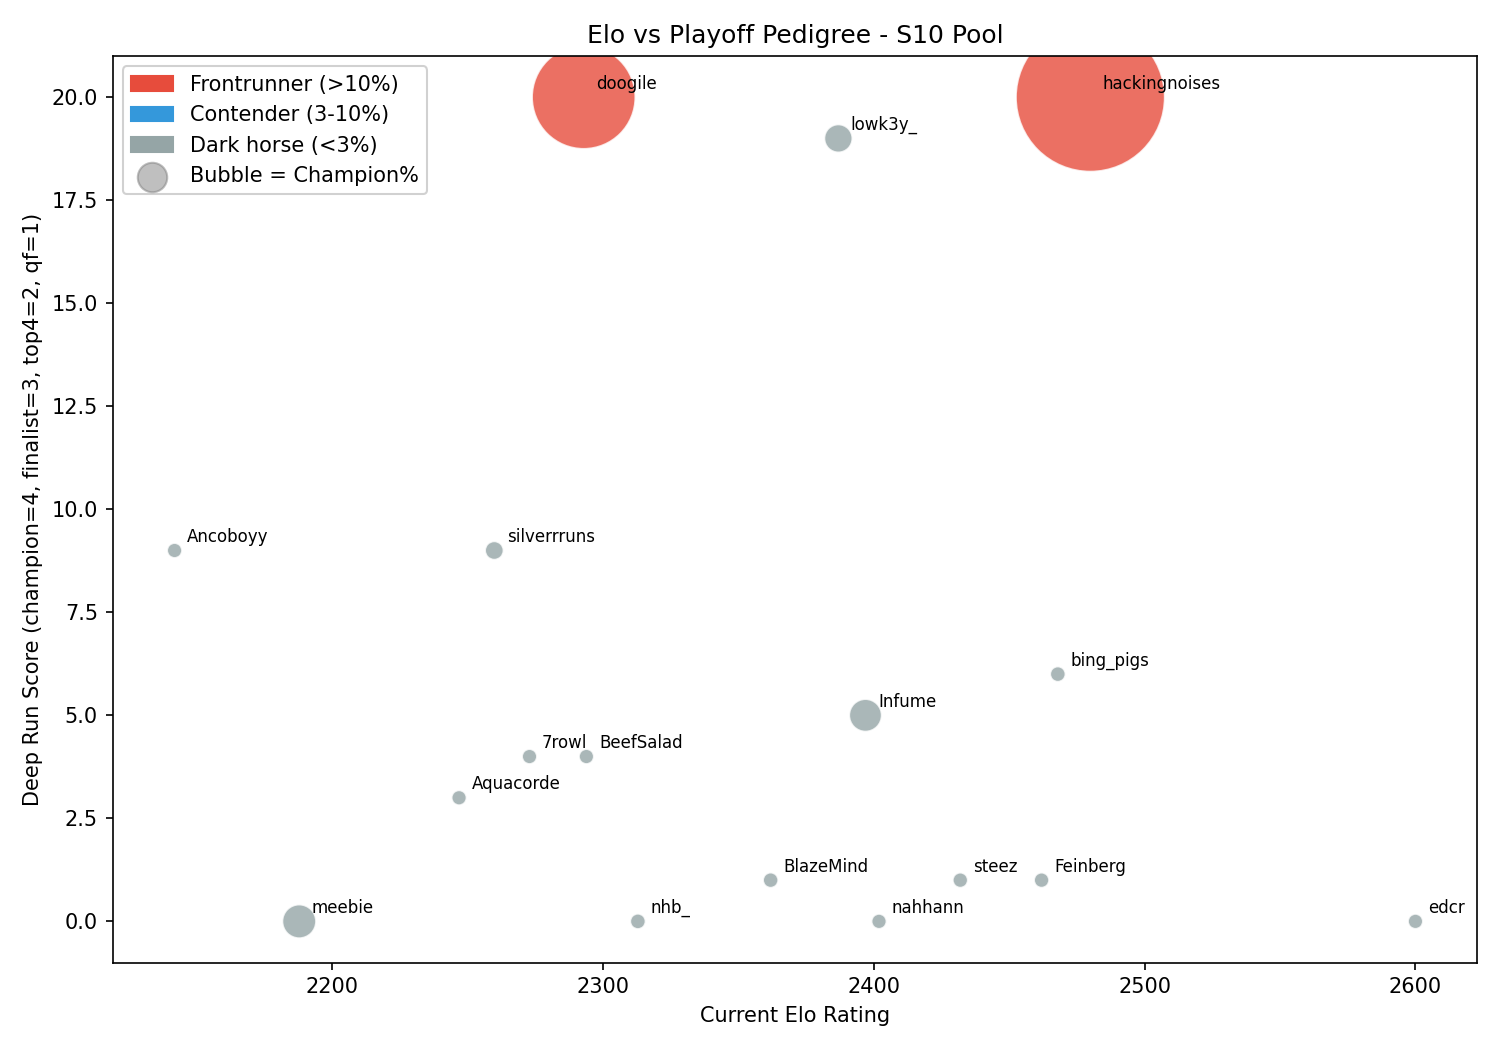
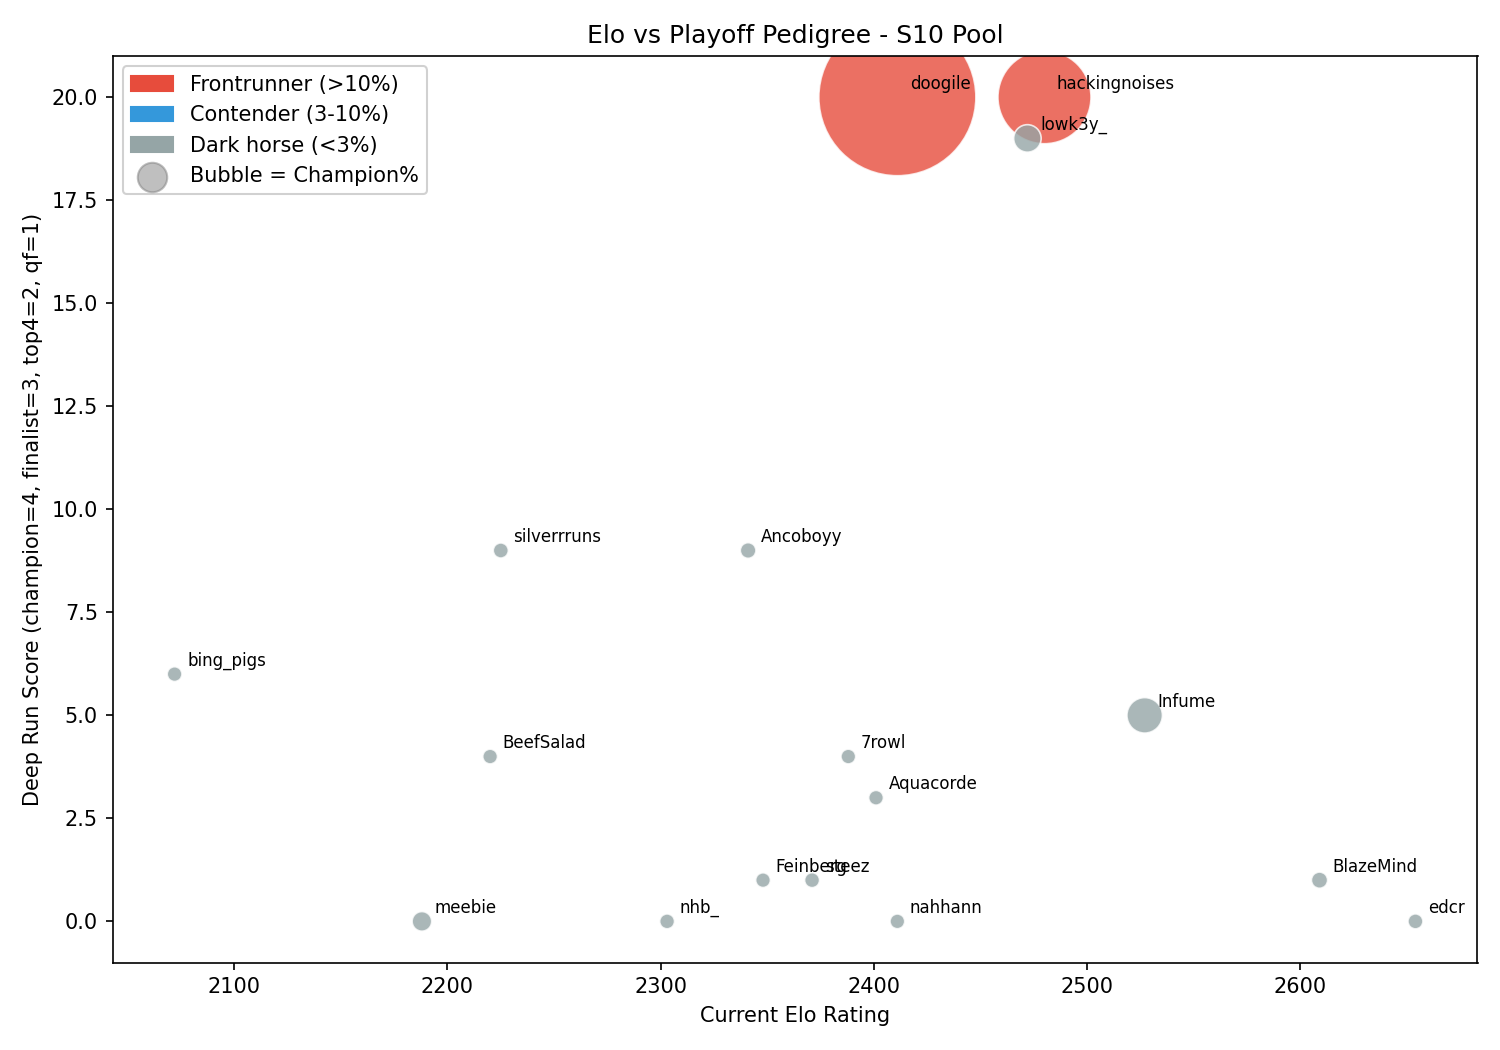
chore: regenerate charts from de-leaked feature pipeline
Observed movement, verified against the pre-refactor script run from
f36f5ca and a seeded four-point ablation (old -> old-roster+leak ->
leak -> fixed) that isolates each driver:

  doogile        35.4% -> 70.4% Champion  (+35)
  hackingnoises  55.8% -> 24.3% Champion  (-31)
  meebie          3.0% ->  0.5%,  Top4 74.5% -> 47.6%
  edcr/BlazeMind/Infume  Top4 +9 to +18pp (high Elo, no pedigree)

The predicted S10 champion flips from hackingnoises to doogile. The
ablation puts essentially all of it on the leak: R2 and the dropped
round(4) move champion% <=1.0pp, and the roster change (feat_by_season
now built from playoff participants, 1282 -> 1530 pairs, admitting
Priffin's S3 bracket) moves it <=1.3pp. Monte Carlo noise across
repeated runs is <=1.1pp, so the 31-35pp movement is ~30x the noise.

Mechanism: leaked pedigree was constant per player across seasons and
included the bracket being predicted, so deep_run_score was nearly the
label itself - LR gave it coef +4.907 and starved Elo down to +0.097,
pushing Champion diff (-1.82) and Finalist diff (-0.68) negative as
residual corrections. De-leaked, DeepRun collapses to +0.439 and Elo
(+0.537) and Finalist (+0.812) turn positive. doogile's third finalist
appearance flips from a -0.53 penalty to a +1.00 bonus, taking his
head-to-head over hackingnoises from 31.8% to 67.0%; nothing else in
that matchup moves. High-Elo/no-pedigree players rise and low-Elo ones
fall for the same reason.
[…]

diff --git a/README.md b/README.md
@@ -47,7 +47,7 @@ The project tries to answer three questions:
 | Plot | Insight |
 |---|---|
 | ![Player archetypes](data/processed/kmeans_clusters.png) | KMeans finds 4 clear archetypes; S10 pool players (red circles) cluster in the Elite / Veteran regions |
-| ![LR feature importance](data/processed/s10_feature_importance.png) | Elo difference, recent win rate, and tournament pedigree are the strongest predictors of head-to-head outcomes |
+| ![LR feature importance](data/processed/s10_feature_importance.png) | Finish-time consistency, recent win rate, and finalist appearances are the strongest predictors of head-to-head outcomes; Elo and overall pedigree contribute at roughly half that weight |
 | ![Elo vs pedigree](data/processed/s10_elo_vs_pedigree.png) | High Elo does not always equal championship pedigree — separation is informative |
 | ![LDA outcome projection](data/processed/lda_pca_outcomes.png) | LDA cleanly separates champion / finalist / top-4 outcomes in PCA-projected feature space |
 
@@ -81,6 +81,7 @@ notebook reproduces end-to-end without re-running the scraper.
 .
 ├── mcsr_playoff_prediction.ipynb   # Main notebook — full analysis with outputs
 ├── src/
+│   ├── features.py                 # Shared feature engineering (single source of truth)
 │   ├── scraper.py                  # MCSR Ranked API scraper (S1-S9)
 │   ├── explore_api.py              # Quick API smoke-test helper
 │   ├── analysis.py                 # EDA, feature engineering, KMeans/t-SNE/PCA
@@ -89,6 +90,9 @@ notebook reproduces end-to-end without re-running the scraper.
 ├── data/
 │   ├── raw/                        # Per-season JSON + combined CSVs (from scraper)
 │   └── processed/                  # Flat CSVs and all chart PNGs
+├── tests/                          # Unit tests + notebook drift test
+├── scripts/
+│   └── make_baseline.py            # Regenerates the feature fixture
 ├── requirements.txt
 ├── LICENSE                         # MIT
 └── README.md
